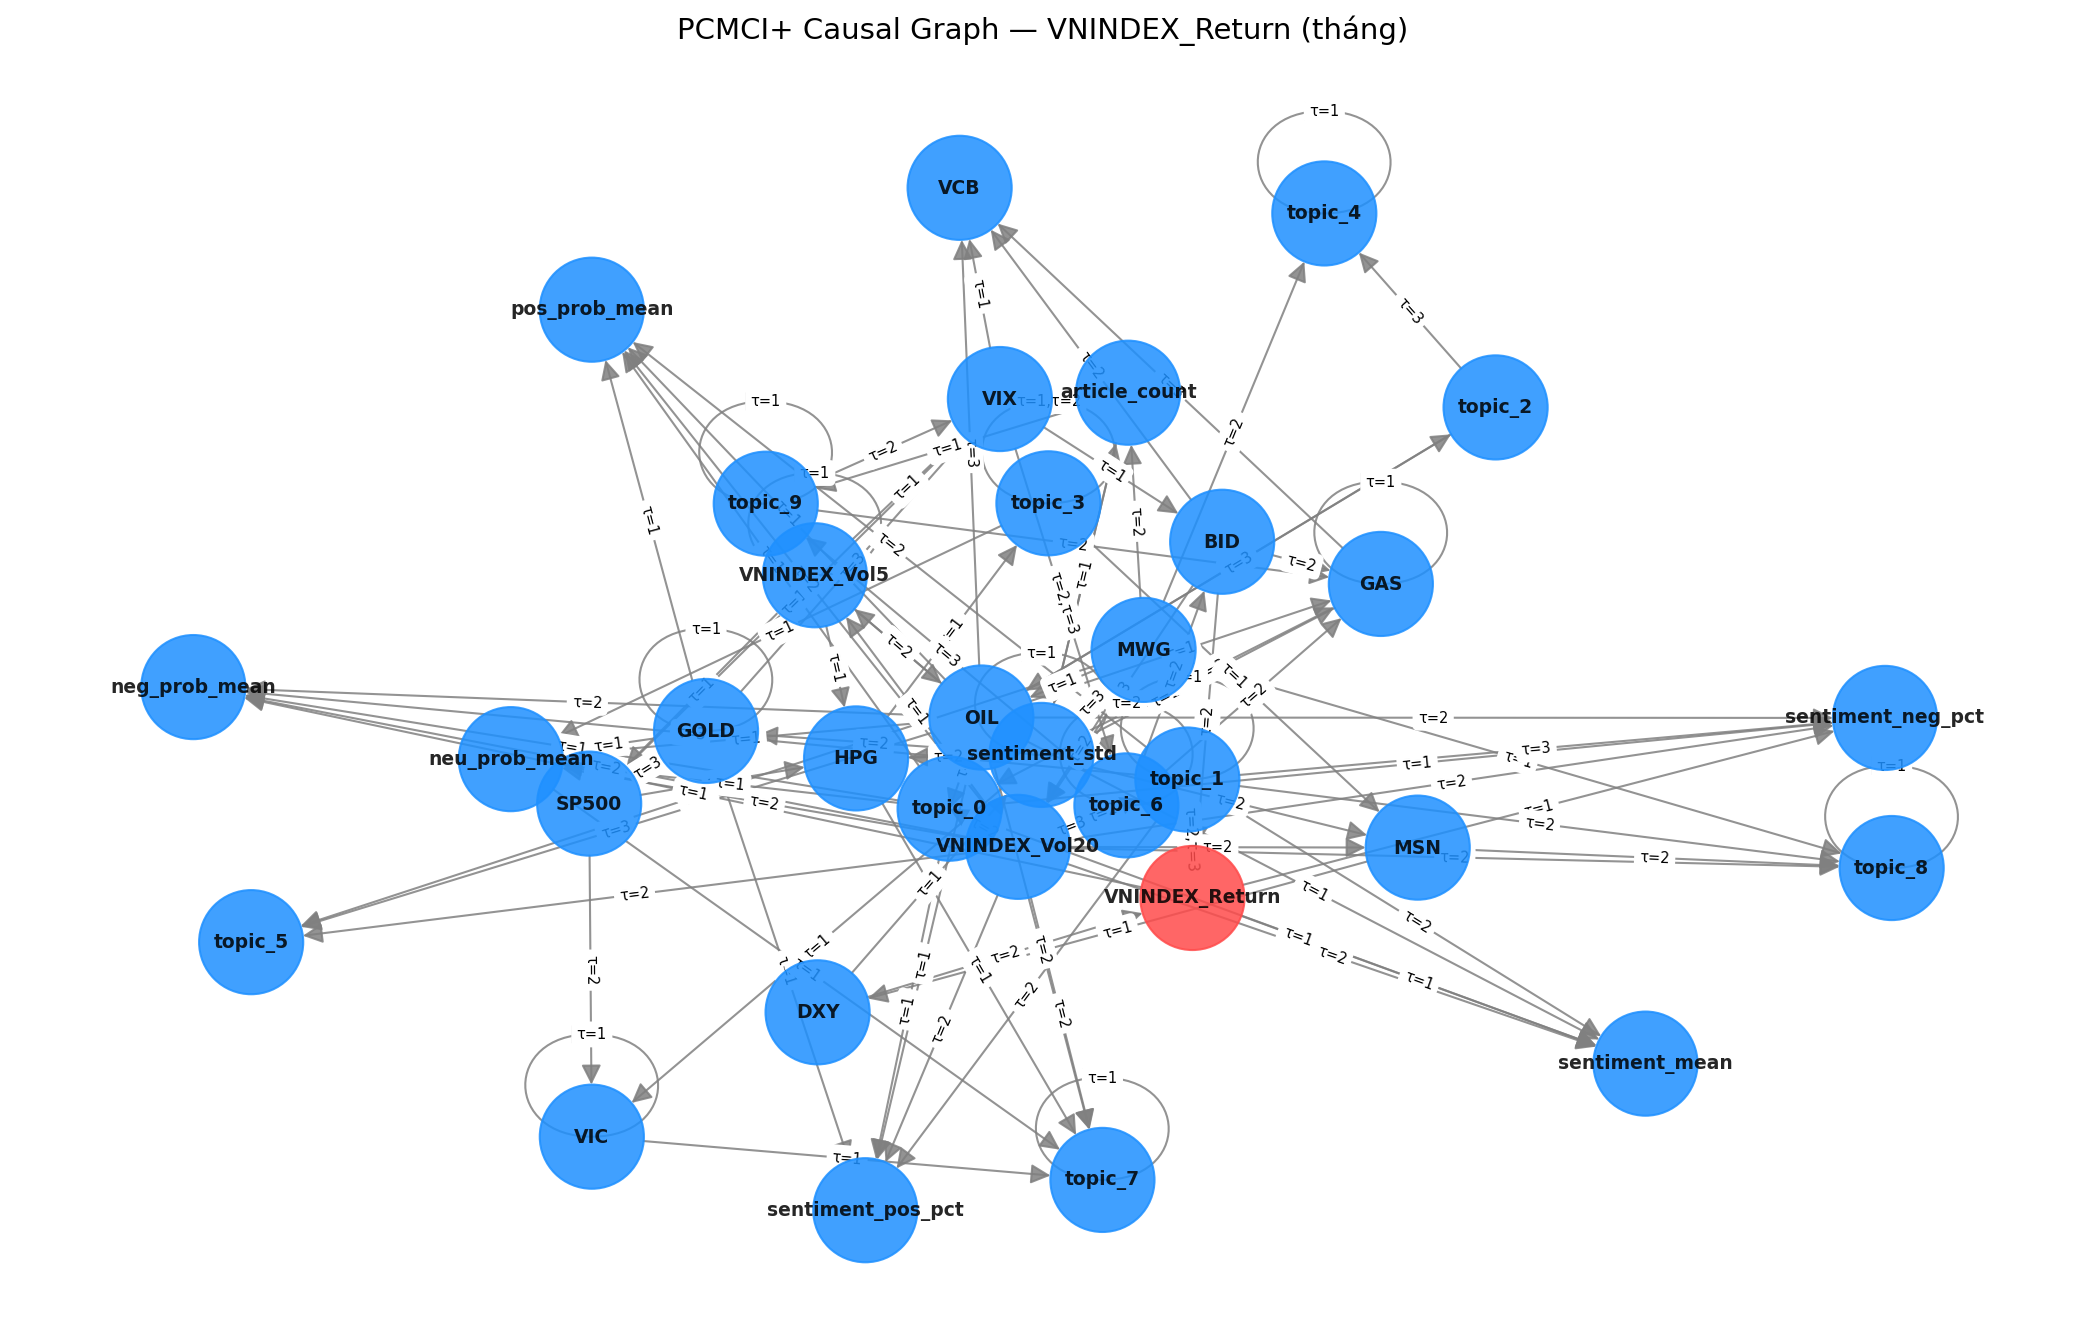
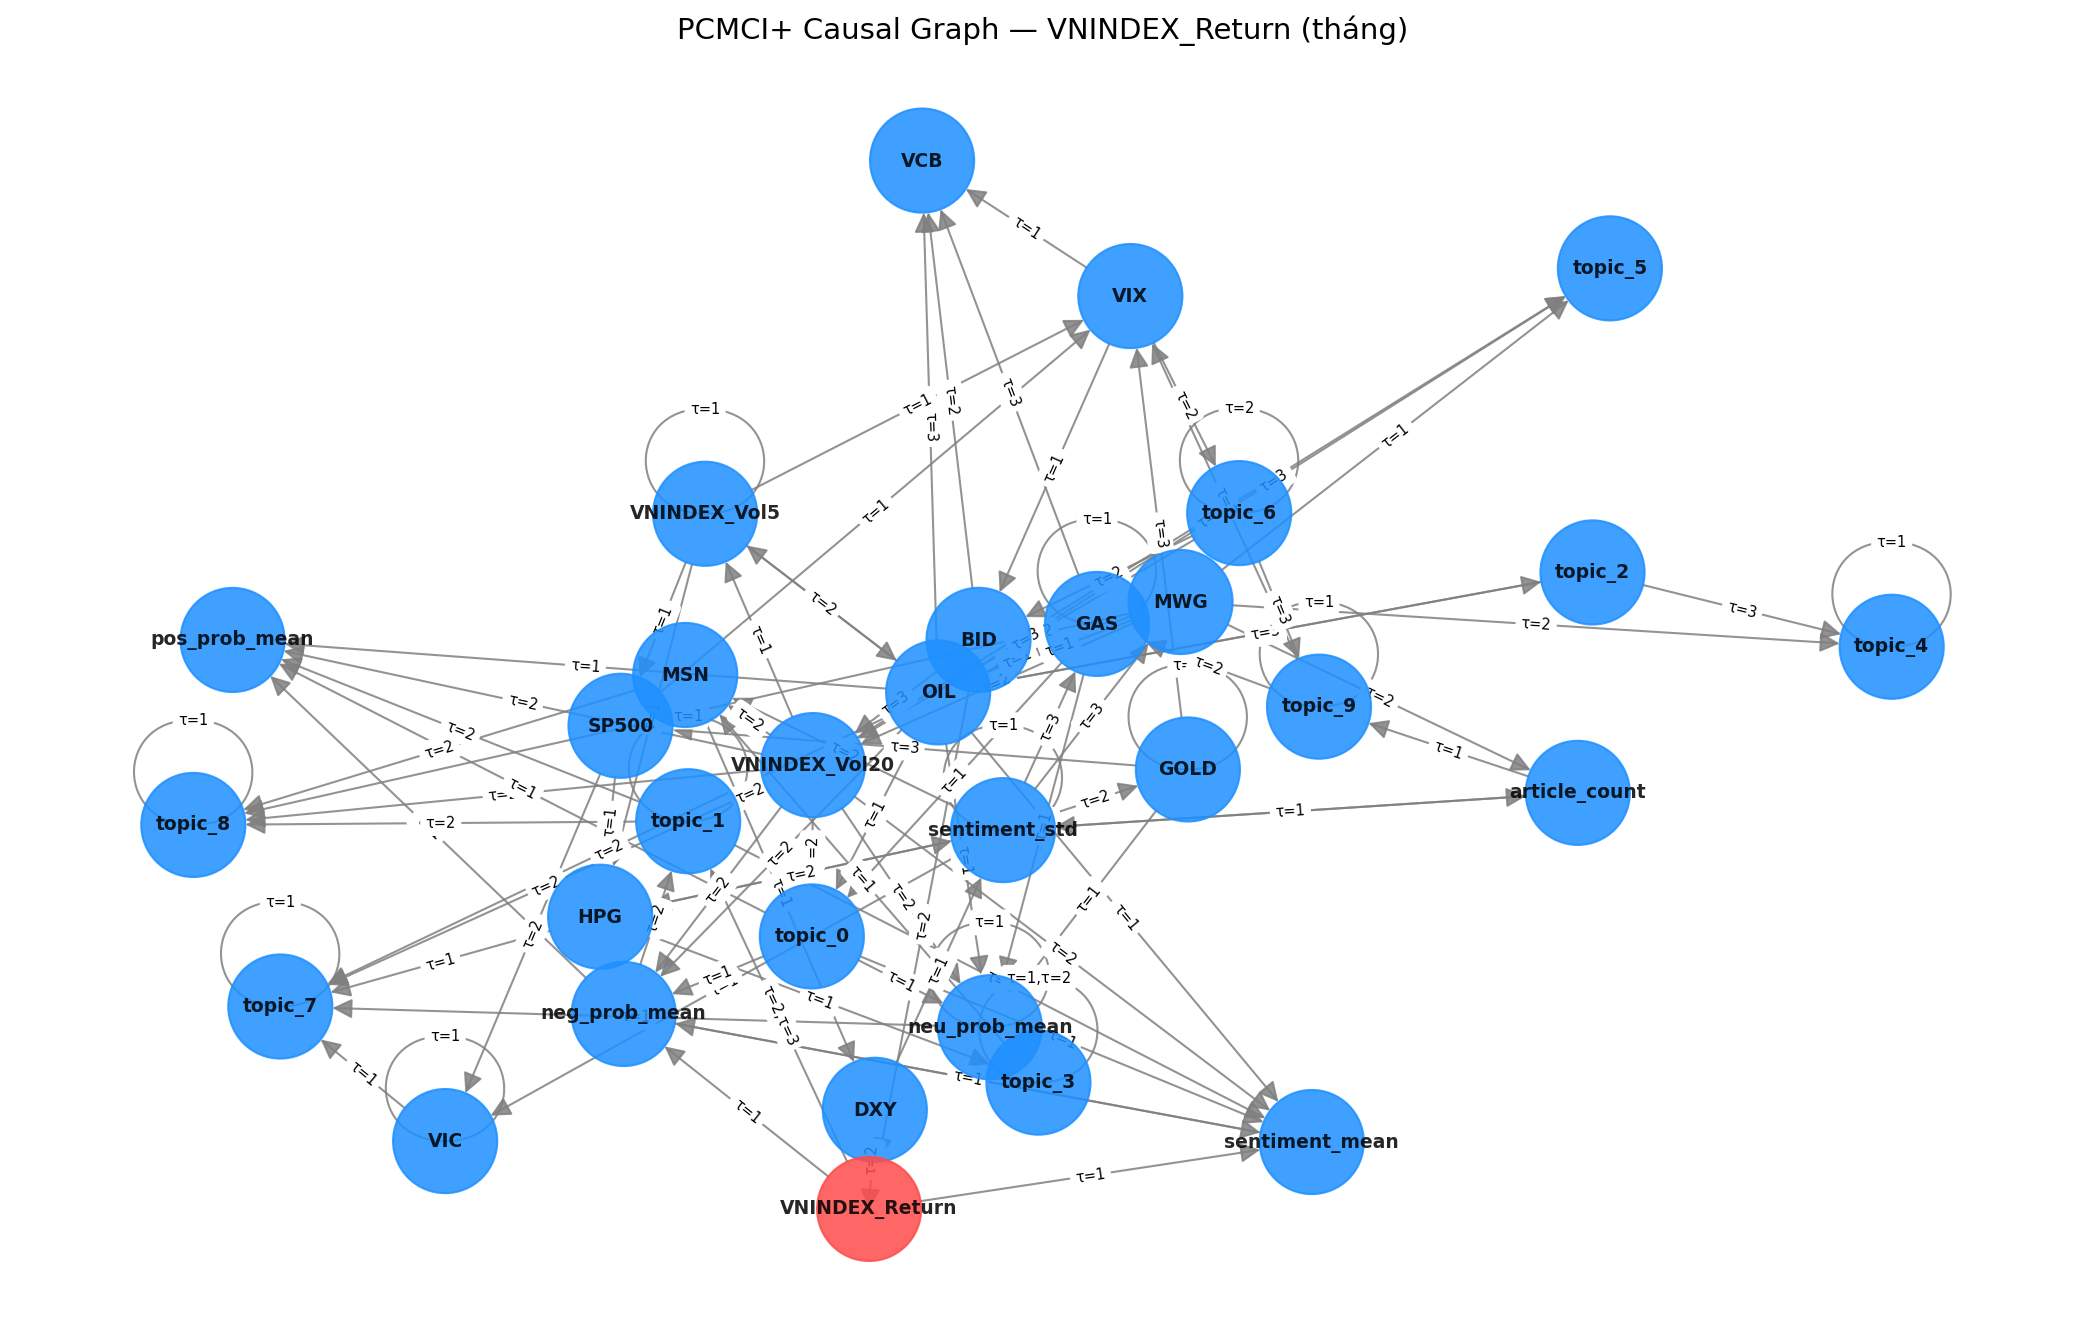
chore: update LDA model artifacts and causal graph visualization

Changed region(s): [[0.0624, 0.0615, 0.9664, 0.9528], [0.5923, 0.1229, 0.6859, 0.2151], [0.7482, 0.7376, 0.8417, 0.8606]]

diff --git a/data_loader.py b/data_loader.py
@@ -243,8 +243,14 @@ def load_news_features(freq: str = "daily") -> pd.DataFrame:
     df = pd.read_csv(news_path, index_col=0, parse_dates=True)
     df.index = pd.to_datetime(df.index).normalize()
 
+    # Bỏ sentiment_pos_pct / sentiment_neg_pct nếu đã có prob_mean tương ứng
+    # (tránh multicollinearity cho PCMCI+: corr(neg_pct, neg_prob_mean) ≈ 0.97)
+    redundant = []
+    if "neg_prob_mean" in df.columns:
+        redundant += ["sentiment_pos_pct", "sentiment_neg_pct"]
+    df = df.drop(columns=[c for c in redundant if c in df.columns])
+
     if freq == "monthly":
-        # Resample về tháng (mean), align index về month-end
         df = df.resample("ME").mean()
 
     print(f"  [News] {df.shape}  {df.index[0].date()} → {df.index[-1].date()}")